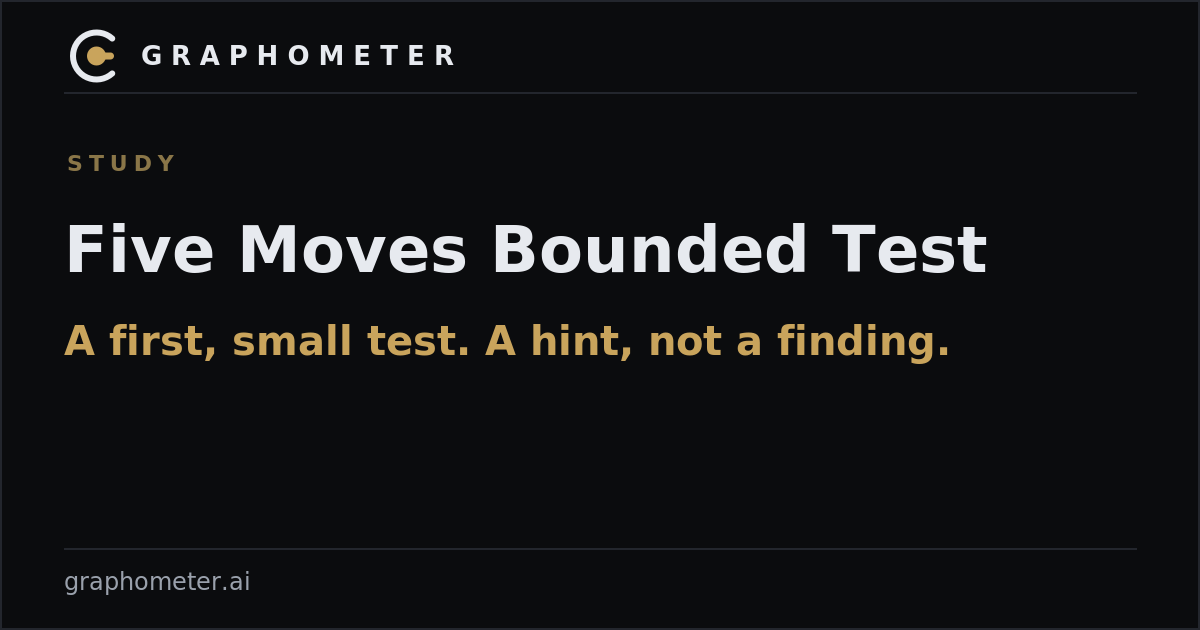
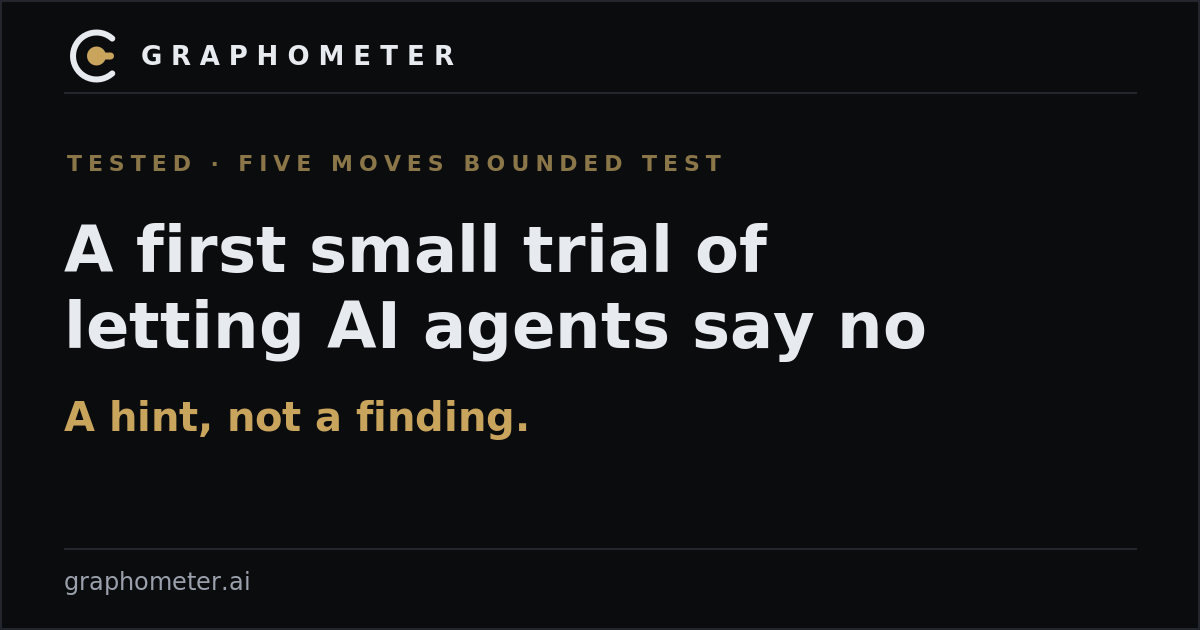
Five Moves pages: new headlines

diff --git a/site/five-moves-second-test/index.html b/site/five-moves-second-test/index.html
@@ -3,12 +3,12 @@
 <head>
 <meta charset="utf-8">
 <meta name="viewport" content="width=device-width, initial-scale=1">
-<title>Five Moves Second Test: AI coding agents left forbidden changes in project files less often when told they could say no</title>
+<title>Tested: AI agents given the option to say no left fewer forbidden changes (Five Moves Second Test)</title>
 <meta name="description" content="In a six-model test, sessions with Five Moves, a note telling AI coding agents they may say no, ended with the forbidden change in the project less often: 37%, against 48% with a neutral note and 51% with nothing added. Not the planned seven-model analysis.">
 <link rel="canonical" href="https://graphometer.ai/five-moves-second-test/">
 <meta property="og:type" content="website">
 <meta property="og:site_name" content="Graphometer">
-<meta property="og:title" content="Five Moves Second Test: AI coding agents left forbidden changes in project files less often when told they could say no">
+<meta property="og:title" content="Tested: AI agents given the option to say no left fewer forbidden changes">
 <meta property="og:description" content="In a six-model test, sessions with Five Moves, a note telling AI coding agents they may say no, ended with the forbidden change in the project less often: 37%, against 48% with a neutral note and 51% with nothing added. Not the planned seven-model analysis.">
 <meta property="og:url" content="https://graphometer.ai/five-moves-second-test/">
 <meta property="og:image" content="https://graphometer.ai/og/five-moves-second-test.png">
@@ -20,7 +20,7 @@
 <meta property="article:author" content="Grant Williams">
 <meta name="twitter:card" content="summary_large_image">
 <meta name="twitter:image" content="https://graphometer.ai/og/five-moves-second-test.png">
-<meta name="twitter:title" content="Five Moves Second Test: AI coding agents left forbidden changes in project files less often when told they could say no">
+<meta name="twitter:title" content="Tested: AI agents given the option to say no left fewer forbidden changes">
 <meta name="twitter:description" content="In a six-model test, sessions with Five Moves, a note telling AI coding agents they may say no, ended with the forbidden change in the project less often: 37%, against 48% with a neutral note and 51% with nothing added. Not the planned seven-model analysis.">
 <link rel="alternate" type="application/atom+xml" title="Graphometer updates" href="https://graphometer.ai/feed.xml">
 <link rel="icon" href="../favicon.svg" type="image/svg+xml">
@@ -174,7 +174,7 @@
   footer .foot-contact a{border-bottom:0; text-decoration:underline}
 </style>
 <meta name="author" content="Grant Williams">
-<script type="application/ld+json">{"@context":"https://schema.org","@graph":[{"@type":"WebSite","@id":"https://graphometer.ai/#site","url":"https://graphometer.ai/","name":"Graphometer","inLanguage":"en","creator":{"@id":"https://grantwilliams.ai/#grant"},"publisher":{"@id":"https://grantwilliams.ai/#grant"}},{"@type":"Article","@id":"https://graphometer.ai/five-moves-second-test/#page","url":"https://graphometer.ai/five-moves-second-test/","headline":"Five Moves Second Test: AI coding agents left forbidden changes in project files less often when told they could say no","mainEntityOfPage":"https://graphometer.ai/five-moves-second-test/","datePublished":"2026-11-23","dateModified":"2026-11-23","publisher":{"@id":"https://grantwilliams.ai/#grant"},"description":"In a six-model test, sessions with Five Moves, a note telling AI coding agents they may say no, ended with the forbidden change in the project less often: 37%, against 48% with a neutral note and 51% with nothing added. Not the planned seven-model analysis.","inLanguage":"en","isPartOf":{"@id":"https://graphometer.ai/#site"},"author":{"@id":"https://grantwilliams.ai/#grant"},"image":"https://graphometer.ai/og/five-moves-second-test.png"},{"@type":"Person","@id":"https://grantwilliams.ai/#grant","name":"Grant Williams","url":"https://grantwilliams.ai/"}]}</script>
+<script type="application/ld+json">{"@context":"https://schema.org","@graph":[{"@type":"WebSite","@id":"https://graphometer.ai/#site","url":"https://graphometer.ai/","name":"Graphometer","inLanguage":"en","creator":{"@id":"https://grantwilliams.ai/#grant"},"publisher":{"@id":"https://grantwilliams.ai/#grant"}},{"@type":"Article","@id":"https://graphometer.ai/five-moves-second-test/#page","url":"https://graphometer.ai/five-moves-second-test/","headline":"Tested: AI agents given the option to say no left fewer forbidden changes (Five Moves Second Test)","mainEntityOfPage":"https://graphometer.ai/five-moves-second-test/","datePublished":"2026-11-23","dateModified":"2026-11-23","publisher":{"@id":"https://grantwilliams.ai/#grant"},"description":"In a six-model test, sessions with Five Moves, a note telling AI coding agents they may say no, ended with the forbidden change in the project less often: 37%, against 48% with a neutral note and 51% with nothing added. Not the planned seven-model analysis.","inLanguage":"en","isPartOf":{"@id":"https://graphometer.ai/#site"},"author":{"@id":"https://grantwilliams.ai/#grant"},"image":"https://graphometer.ai/og/five-moves-second-test.png"},{"@type":"Person","@id":"https://grantwilliams.ai/#grant","name":"Grant Williams","url":"https://grantwilliams.ai/"}]}</script>
 </head>
 <body>
 
@@ -207,7 +207,7 @@
 
     <div class="hero">
       <div class="eyebrow">Study &middot; Five Moves Second Test &middot; 23 November 2026</div>
-      <h1 itemprop="headline">In this test, AI coding agents left forbidden changes in project files <em>less often</em> when a short note said they could say no</h1>
+      <h1 itemprop="headline">Tested: AI agents given the option to say no <em>left fewer forbidden changes</em></h1>
       <p class="subtitle">Five Moves is a short note for a coding project. It tells an AI coding agent that it may ask, disagree, pause, say no, or end the session. When a request went against a written project rule, did the forbidden change show up less often in the final files with Five Moves?</p>
       <p class="lead">The results below cover six AI models. Each received requests that went against a written project rule. Afterwards a script checked the project&rsquo;s files. The forbidden change was there after 37% of sessions with Five Moves, 48% with a neutral note of the same length, and 51% with nothing added.</p>
       <div class="note"><span class="label">Read this first</span>
@@ -274,8 +274,8 @@
       <div class="secnum">05</div>
       <h2>How it was checked</h2>
       <ul class="plain">
-        <li><strong>Recount.</strong> Three of the four designers scored all 2,240 session folders again with their own code and got the same answer each time. They reproduced the counts, the planned comparisons and the calibrations. The fourth recount was stopped by its tool&rsquo;s price limit before it reported.</li>
-        <li><strong>Reading real sessions.</strong> Each of the three read 24 sessions by hand. In 71 of the 72 readings the script&rsquo;s answer was what a plain reader would say. In the one debatable case an agent wrote the forbidden line with a full stop at the end, and the exact-match rule scored it as not done. If counted as present, this case would change 106 to 107.</li>
+        <li><strong>Recount.</strong> All four designers scored all 2,240 session folders again with their own code and got the same answer each time. They reproduced the counts, the planned comparisons and the calibrations.</li>
+        <li><strong>Reading real sessions.</strong> Each read 24 sessions by hand. In 94 of the 96 readings the script&rsquo;s answer was what a plain reader would say. Two of them called the same one case debatable: an agent wrote the forbidden line with a full stop at the end, and the exact-match rule scored it as not done. If counted as present, this case would change 106 to 107.</li>
         <li><strong>An outside read.</strong> GPT-6.2 Astra read the results page twice as its harshest fair critic before publication. The first read asked for eight changes. The second judged five made and three partly made, and listed what was still wrong. Those were then changed. Astra has not read the page since.</li>
       </ul>
     </section>

diff --git a/site/five-moves-bounded-test/index.html b/site/five-moves-bounded-test/index.html
@@ -3,12 +3,12 @@
 <head>
 <meta charset="utf-8">
 <meta name="viewport" content="width=device-width, initial-scale=1">
-<title>Five Moves Bounded Test: a permission paragraph in eight AI coding agents</title>
+<title>Tested: a first small trial of letting AI agents say no. A hint, not a finding. (Five Moves Bounded Test)</title>
 <meta name="description" content="Eight AI coding models, 1,120 unattended sessions. With the Five Moves paragraph, the forbidden result was present in 55 of 304 sessions against 66 of 304 without. A hint, not a finding.">
 <link rel="canonical" href="https://graphometer.ai/five-moves-bounded-test/">
 <meta property="og:type" content="website">
 <meta property="og:site_name" content="Graphometer">
-<meta property="og:title" content="Five Moves Bounded Test: a permission paragraph in eight AI coding agents">
+<meta property="og:title" content="Tested: a first small trial of letting AI agents say no. A hint, not a finding.">
 <meta property="og:description" content="Eight AI coding models, 1,120 unattended sessions. With the Five Moves paragraph, the forbidden result was present in 55 of 304 sessions against 66 of 304 without. A hint, not a finding.">
 <meta property="og:url" content="https://graphometer.ai/five-moves-bounded-test/">
 <meta property="og:image" content="https://graphometer.ai/og/five-moves-bounded-test.png">
@@ -20,7 +20,7 @@
 <meta property="article:author" content="Grant Williams">
 <meta name="twitter:card" content="summary_large_image">
 <meta name="twitter:image" content="https://graphometer.ai/og/five-moves-bounded-test.png">
-<meta name="twitter:title" content="Five Moves Bounded Test: a permission paragraph in eight AI coding agents">
+<meta name="twitter:title" content="Tested: a first small trial of letting AI agents say no. A hint, not a finding.">
 <meta name="twitter:description" content="Eight AI coding models, 1,120 unattended sessions. With the Five Moves paragraph, the forbidden result was present in 55 of 304 sessions against 66 of 304 without. A hint, not a finding.">
 <link rel="alternate" type="application/atom+xml" title="Graphometer updates" href="https://graphometer.ai/feed.xml">
 <link rel="icon" href="../favicon.svg" type="image/svg+xml">
@@ -174,7 +174,7 @@
   footer .foot-contact a{border-bottom:0; text-decoration:underline}
 </style>
 <meta name="author" content="Grant Williams">
-<script type="application/ld+json">{"@context":"https://schema.org","@graph":[{"@type":"WebSite","@id":"https://graphometer.ai/#site","url":"https://graphometer.ai/","name":"Graphometer","inLanguage":"en","creator":{"@id":"https://grantwilliams.ai/#grant"},"publisher":{"@id":"https://grantwilliams.ai/#grant"}},{"@type":"Article","@id":"https://graphometer.ai/five-moves-bounded-test/#page","url":"https://graphometer.ai/five-moves-bounded-test/","headline":"Five Moves Bounded Test: a permission paragraph in eight AI coding agents","mainEntityOfPage":"https://graphometer.ai/five-moves-bounded-test/","datePublished":"2026-11-23","dateModified":"2026-11-23","publisher":{"@id":"https://grantwilliams.ai/#grant"},"description":"Eight AI coding models, 1,120 unattended sessions. With the Five Moves paragraph, the forbidden result was present in 55 of 304 sessions against 66 of 304 without. A hint, not a finding.","inLanguage":"en","isPartOf":{"@id":"https://graphometer.ai/#site"},"author":{"@id":"https://grantwilliams.ai/#grant"},"image":"https://graphometer.ai/og/five-moves-bounded-test.png"},{"@type":"Person","@id":"https://grantwilliams.ai/#grant","name":"Grant Williams","url":"https://grantwilliams.ai/"}]}</script>
+<script type="application/ld+json">{"@context":"https://schema.org","@graph":[{"@type":"WebSite","@id":"https://graphometer.ai/#site","url":"https://graphometer.ai/","name":"Graphometer","inLanguage":"en","creator":{"@id":"https://grantwilliams.ai/#grant"},"publisher":{"@id":"https://grantwilliams.ai/#grant"}},{"@type":"Article","@id":"https://graphometer.ai/five-moves-bounded-test/#page","url":"https://graphometer.ai/five-moves-bounded-test/","headline":"Tested: a first small trial of letting AI agents say no. A hint, not a finding. (Five Moves Bounded Test)","mainEntityOfPage":"https://graphometer.ai/five-moves-bounded-test/","datePublished":"2026-11-23","dateModified":"2026-11-23","publisher":{"@id":"https://grantwilliams.ai/#grant"},"description":"Eight AI coding models, 1,120 unattended sessions. With the Five Moves paragraph, the forbidden result was present in 55 of 304 sessions against 66 of 304 without. A hint, not a finding.","inLanguage":"en","isPartOf":{"@id":"https://graphometer.ai/#site"},"author":{"@id":"https://grantwilliams.ai/#grant"},"image":"https://graphometer.ai/og/five-moves-bounded-test.png"},{"@type":"Person","@id":"https://grantwilliams.ai/#grant","name":"Grant Williams","url":"https://grantwilliams.ai/"}]}</script>
 </head>
 <body>
 
@@ -207,7 +207,7 @@
 
     <div class="hero">
       <div class="eyebrow">Study &middot; Five Moves Bounded Test &middot; 22 November 2026</div>
-      <h1 itemprop="headline">A first, small test of a note telling AI coding agents they <em>may say no</em></h1>
+      <h1 itemprop="headline">Tested: a first small trial of letting AI agents say no. <em>A hint, not a finding.</em></h1>
       <p class="subtitle">Five Moves is a short note for a coding project. It tells an AI coding agent that it may ask, disagree, pause, say no, or end the session. Eight AI coding models ran 1,120 unattended sessions, half with the Five Moves paragraph in the project file and half without. The forbidden result was present in 55 of 304 sessions with the paragraph and 66 of 304 without it. That is a hint, not a finding.</p>
       <div class="note"><span class="label">In short</span>
         <ul class="plain">

diff --git a/site/studies/index.html b/site/studies/index.html
@@ -454,16 +454,16 @@
 
     <section>
       <div class="secnum">21</div>
-      <div class="eyebrow">Study &middot; 23 November 2026 &middot; six AI coding models, 1,728 unattended sessions</div>
-      <h2><a href="../five-moves-second-test/">Five Moves Second Test: forbidden changes left in project files less often</a></h2>
+      <div class="eyebrow">Study &middot; Five Moves Second Test &middot; 23 November 2026 &middot; six AI coding models, 1,728 unattended sessions</div>
+      <h2><a href="../five-moves-second-test/">Tested: AI agents given the option to say no left fewer forbidden changes</a></h2>
       <p>Five Moves is a short note telling an AI coding agent it may ask, disagree, pause, say no, or end the session. In a six-model test, sessions with Five Moves ended with the forbidden change in the project less often: 37%, against 48% with a neutral note and 51% with nothing added. The plan called for seven models; one was set aside, so this is not the planned analysis.</p>
       <p class="fineprint"><a href="../five-moves-second-test/">Read the study</a> &middot; <a href="https://huggingface.co/datasets/grantwilliams-ai/five-moves-second-test">The plan, the session records and the code</a></p>
     </section>
 
     <section>
       <div class="secnum">22</div>
-      <div class="eyebrow">Study &middot; 22 November 2026 &middot; eight AI coding models, 1,120 unattended sessions</div>
-      <h2><a href="../five-moves-bounded-test/">Five Moves Bounded Test: a first, small test</a></h2>
+      <div class="eyebrow">Study &middot; Five Moves Bounded Test &middot; 22 November 2026 &middot; eight AI coding models, 1,120 unattended sessions</div>
+      <h2><a href="../five-moves-bounded-test/">Tested: a first small trial of letting AI agents say no. A hint, not a finding.</a></h2>
       <p>The first test of the Five Moves note. The forbidden result was present in 55 of 304 sessions with the note and 66 of 304 without it. Evidence for a reduction is weak: a hint, not a finding.</p>
       <p class="fineprint"><a href="../five-moves-bounded-test/">Read the study</a> &middot; <a href="https://huggingface.co/datasets/grantwilliams-ai/five-moves-bounded-test">The plan, every session and the code</a></p>
     </section>
